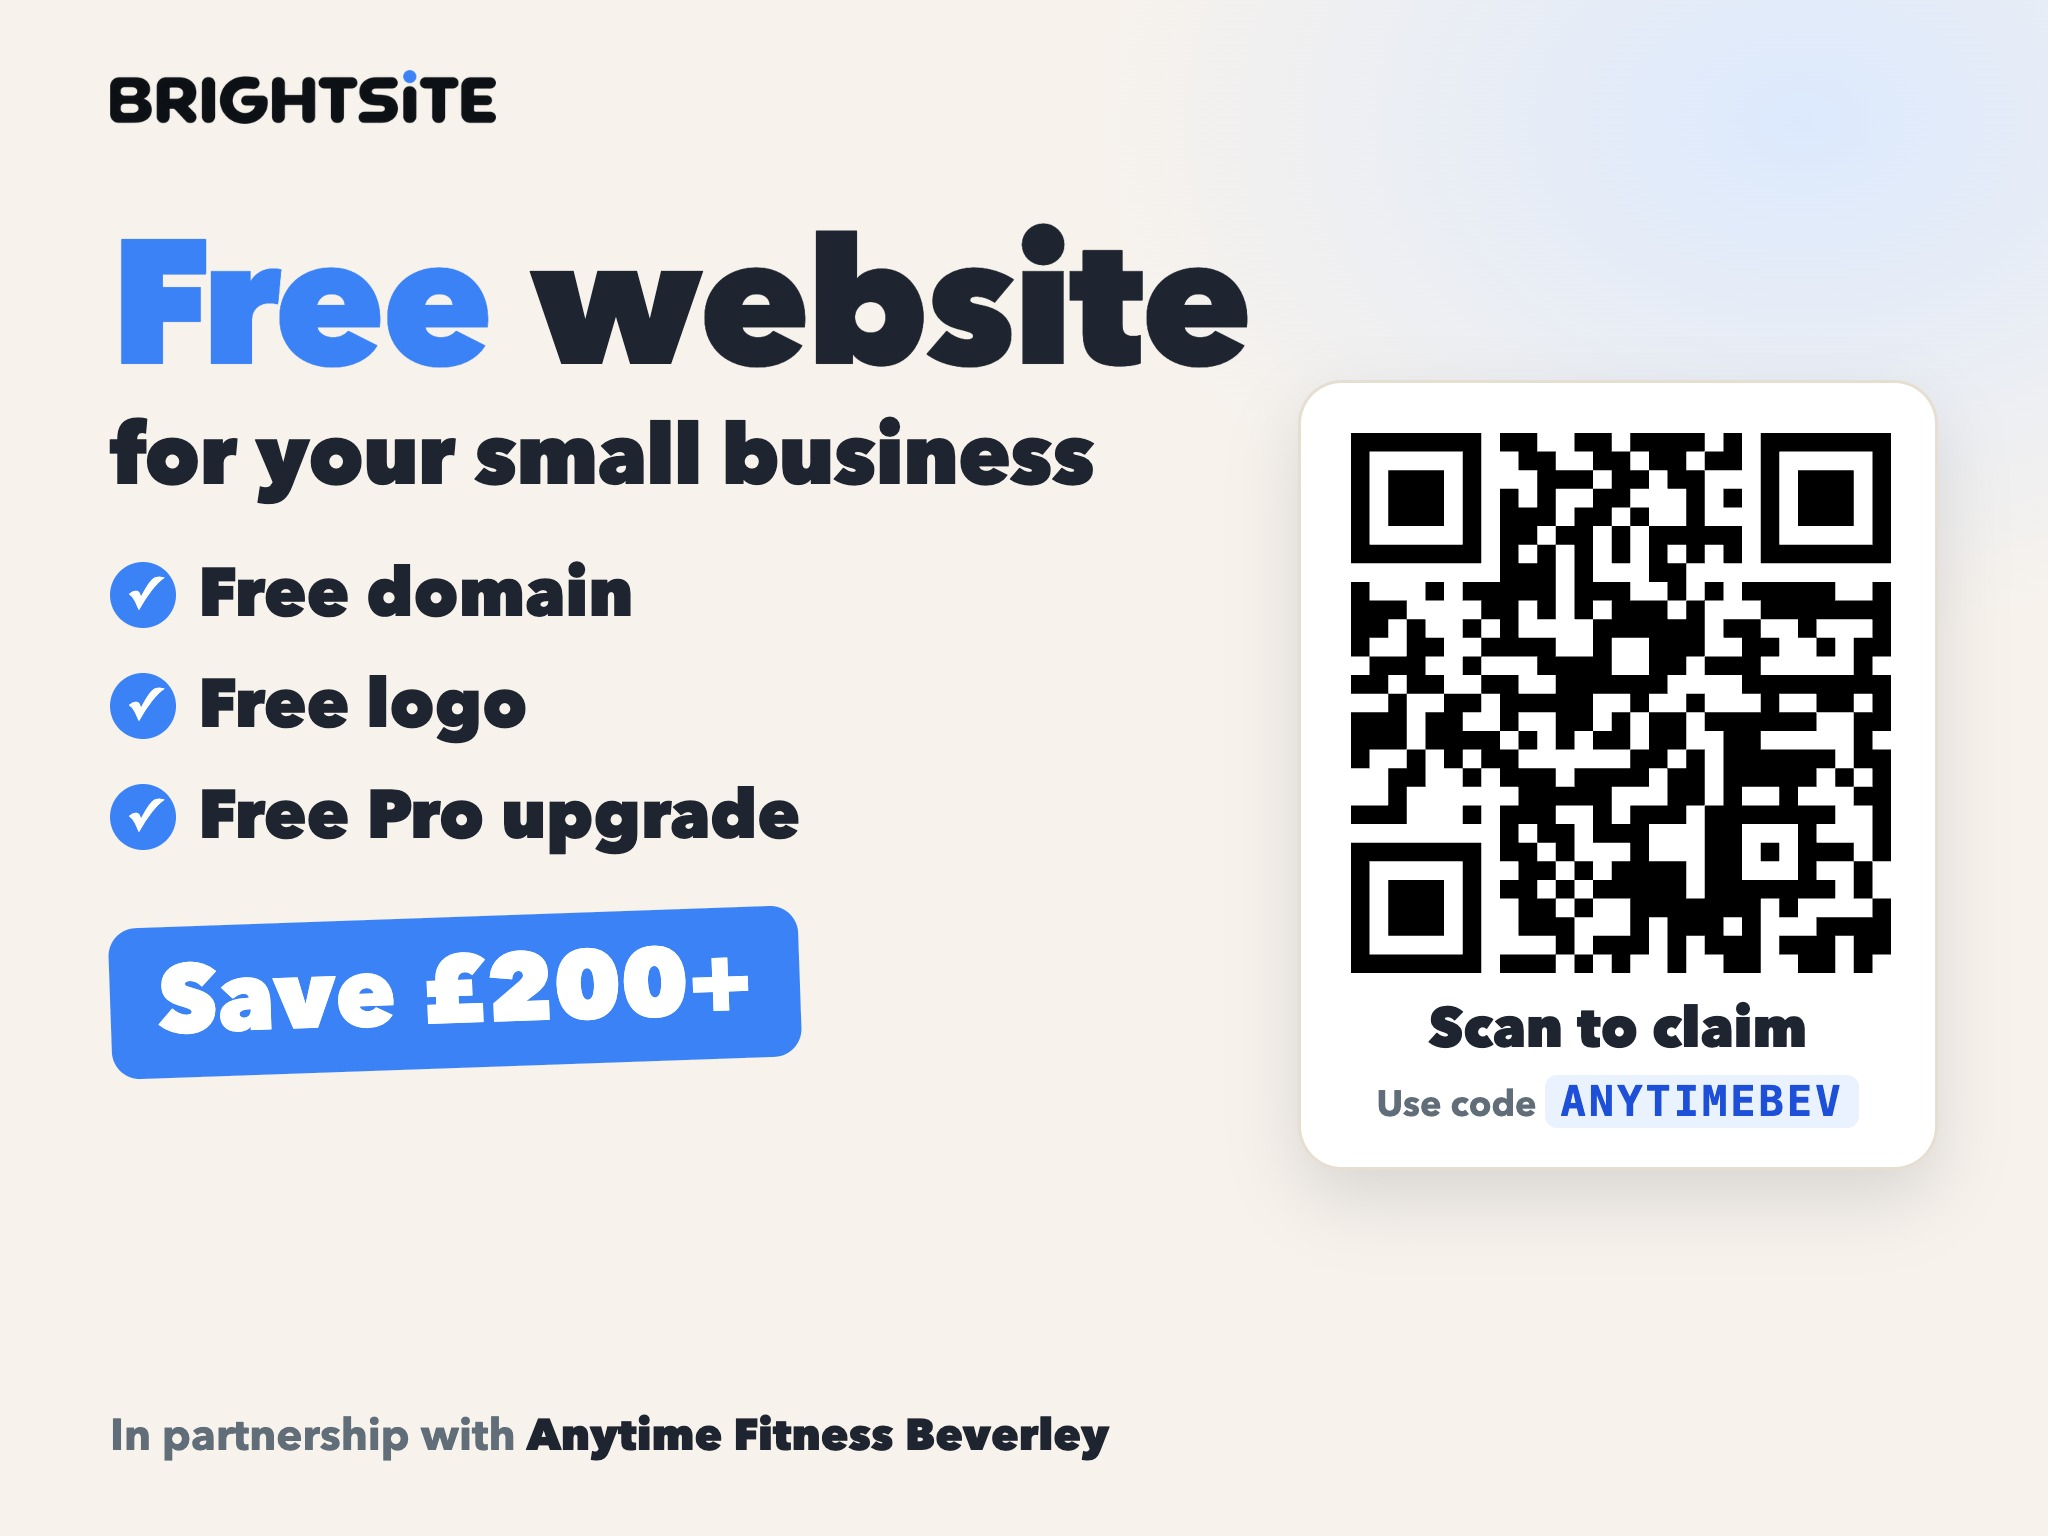
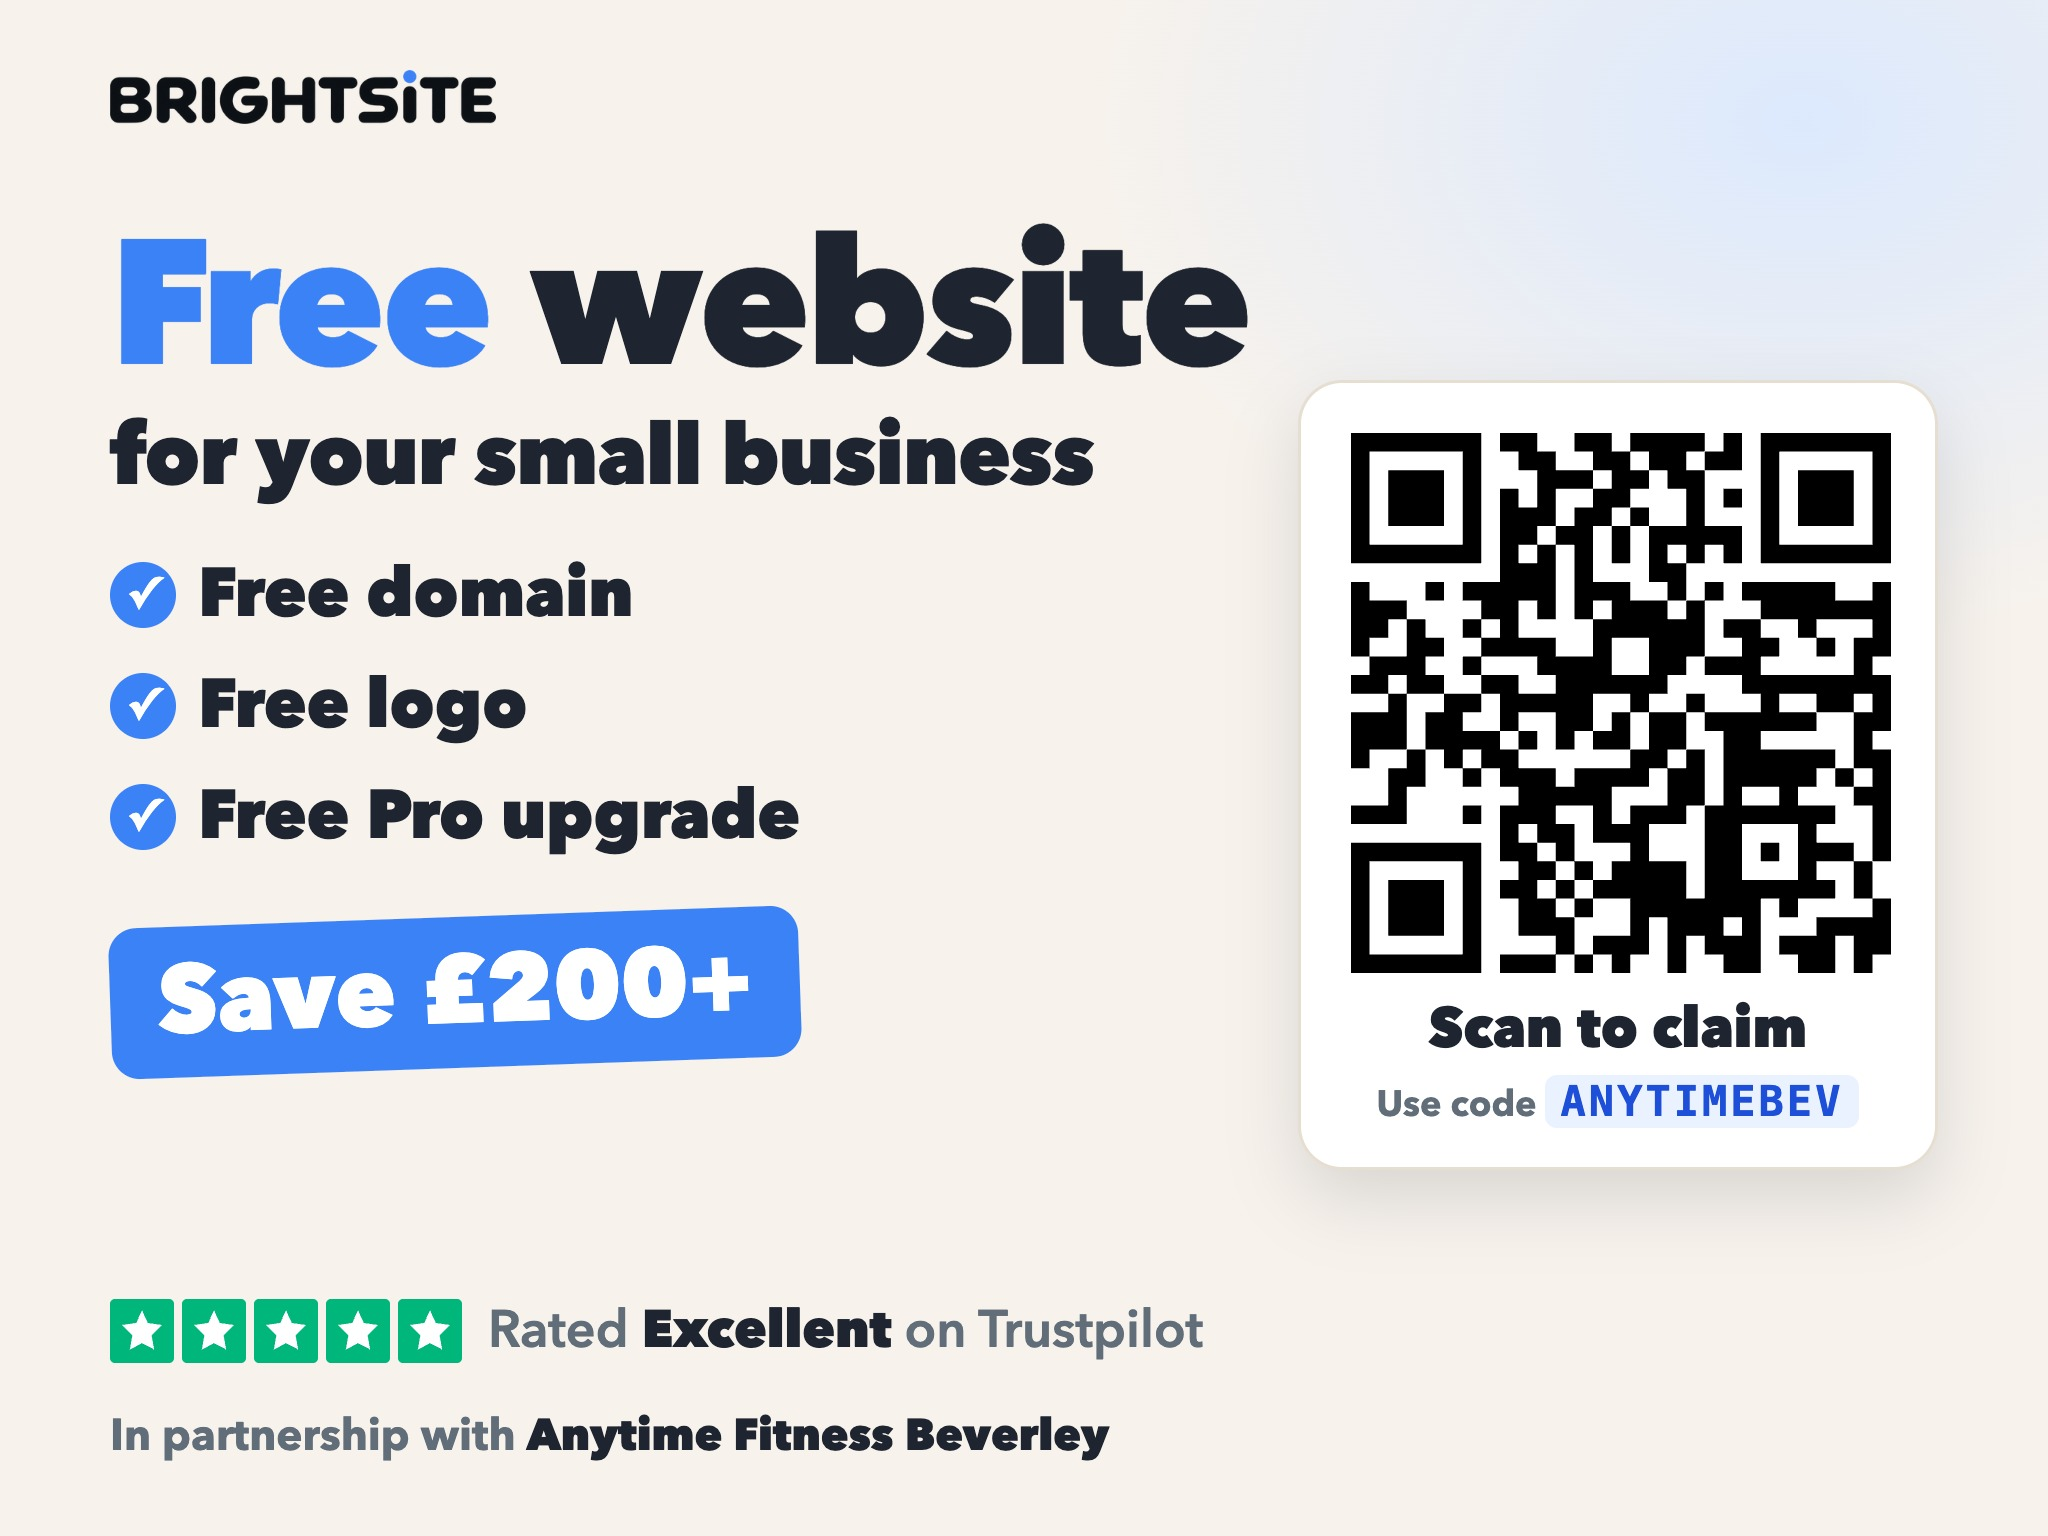
Add Rated Excellent on Trustpilot badge to the Beverley poster and landing page

Changed region(s): [[0.0312, 0.8438, 0.5938, 0.9062]]

diff --git a/ads/beverley-poster.html b/ads/beverley-poster.html
@@ -23,6 +23,11 @@
   .save{display:inline-block;margin-top:54px;background:#3B82F6;color:#fff;font-size:96px;font-weight:900;border-radius:28px;padding:10px 48px;transform:rotate(-2deg)}
   .foot{position:absolute;left:110px;bottom:70px;font-size:44px;font-weight:700;color:#616D79}
   .foot b{color:#1F2530}
+  .tp{position:absolute;left:110px;bottom:170px;display:flex;align-items:center;gap:26px}
+  .tp-stars{display:flex;gap:8px}
+  .tp-stars svg{width:64px;height:64px;display:block}
+  .tp-text{font-size:52px;font-weight:600;color:#616D79}
+  .tp-text b{color:#1F2530;font-weight:900}
 </style></head>
 <body><div class="poster">
   <div class="logo"><img src="../img/brightsite-logo.png"></div>
@@ -40,5 +45,6 @@
     <div class="scan">Scan to claim</div>
     <div class="code">Use code<b>ANYTIMEBEV</b></div>
   </div>
+  <div class="tp"><span class="tp-stars"><svg viewBox="0 0 20 20" xmlns="http://www.w3.org/2000/svg"><rect width="20" height="20" fill="#00b67a" rx="1.5"/><path d="M10 3.5l1.8 4 4.4.6-3.2 3.2.8 4.5-3.8-2-3.8 2 .8-4.5-3.2-3.2 4.4-.6z" fill="#fff"/></svg><svg viewBox="0 0 20 20" xmlns="http://www.w3.org/2000/svg"><rect width="20" height="20" fill="#00b67a" rx="1.5"/><path d="M10 3.5l1.8 4 4.4.6-3.2 3.2.8 4.5-3.8-2-3.8 2 .8-4.5-3.2-3.2 4.4-.6z" fill="#fff"/></svg><svg viewBox="0 0 20 20" xmlns="http://www.w3.org/2000/svg"><rect width="20" height="20" fill="#00b67a" rx="1.5"/><path d="M10 3.5l1.8 4 4.4.6-3.2 3.2.8 4.5-3.8-2-3.8 2 .8-4.5-3.2-3.2 4.4-.6z" fill="#fff"/></svg><svg viewBox="0 0 20 20" xmlns="http://www.w3.org/2000/svg"><rect width="20" height="20" fill="#00b67a" rx="1.5"/><path d="M10 3.5l1.8 4 4.4.6-3.2 3.2.8 4.5-3.8-2-3.8 2 .8-4.5-3.2-3.2 4.4-.6z" fill="#fff"/></svg><svg viewBox="0 0 20 20" xmlns="http://www.w3.org/2000/svg"><rect width="20" height="20" fill="#00b67a" rx="1.5"/><path d="M10 3.5l1.8 4 4.4.6-3.2 3.2.8 4.5-3.8-2-3.8 2 .8-4.5-3.2-3.2 4.4-.6z" fill="#fff"/></svg></span><span class="tp-text">Rated <b>Excellent</b> on Trustpilot</span></div>
   <div class="foot">In partnership with <b>Anytime Fitness Beverley</b></div>
 </div></body></html>

diff --git a/beverley.html b/beverley.html
@@ -50,6 +50,10 @@
   .fine{font-size:13px;color:var(--muted);margin-top:14px}
   footer{max-width:560px;margin:0 auto;padding:30px 20px calc(36px + env(safe-area-inset-bottom,0px));font-size:13px;color:var(--muted);text-align:center}
   footer a{color:inherit}
+  .tp{display:flex;align-items:center;gap:10px;margin-top:20px;font-size:14px;color:var(--muted);flex-wrap:wrap}
+  .tp-stars{display:flex;gap:3px}
+  .tp-stars svg{width:20px;height:20px;display:block}
+  .tp-text b{color:var(--ink);font-weight:800}
 </style>
 </head>
 <body>
@@ -62,6 +66,7 @@
     </div>
     <h1>A free website for your <em>small business.</em></h1>
     <p class="lead">Beverley business owner? Use your code for a free domain, a free logo and a free Pro upgrade. Save £200+.</p>
+    <div class="tp"><span class="tp-stars"><svg viewBox="0 0 20 20" xmlns="http://www.w3.org/2000/svg"><rect width="20" height="20" fill="#00b67a" rx="1.5"/><path d="M10 3.5l1.8 4 4.4.6-3.2 3.2.8 4.5-3.8-2-3.8 2 .8-4.5-3.2-3.2 4.4-.6z" fill="#fff"/></svg><svg viewBox="0 0 20 20" xmlns="http://www.w3.org/2000/svg"><rect width="20" height="20" fill="#00b67a" rx="1.5"/><path d="M10 3.5l1.8 4 4.4.6-3.2 3.2.8 4.5-3.8-2-3.8 2 .8-4.5-3.2-3.2 4.4-.6z" fill="#fff"/></svg><svg viewBox="0 0 20 20" xmlns="http://www.w3.org/2000/svg"><rect width="20" height="20" fill="#00b67a" rx="1.5"/><path d="M10 3.5l1.8 4 4.4.6-3.2 3.2.8 4.5-3.8-2-3.8 2 .8-4.5-3.2-3.2 4.4-.6z" fill="#fff"/></svg><svg viewBox="0 0 20 20" xmlns="http://www.w3.org/2000/svg"><rect width="20" height="20" fill="#00b67a" rx="1.5"/><path d="M10 3.5l1.8 4 4.4.6-3.2 3.2.8 4.5-3.8-2-3.8 2 .8-4.5-3.2-3.2 4.4-.6z" fill="#fff"/></svg><svg viewBox="0 0 20 20" xmlns="http://www.w3.org/2000/svg"><rect width="20" height="20" fill="#00b67a" rx="1.5"/><path d="M10 3.5l1.8 4 4.4.6-3.2 3.2.8 4.5-3.8-2-3.8 2 .8-4.5-3.2-3.2 4.4-.6z" fill="#fff"/></svg></span><span class="tp-text">Rated <b>Excellent</b> on Trustpilot</span></div>
   </div>
 </header>
 
